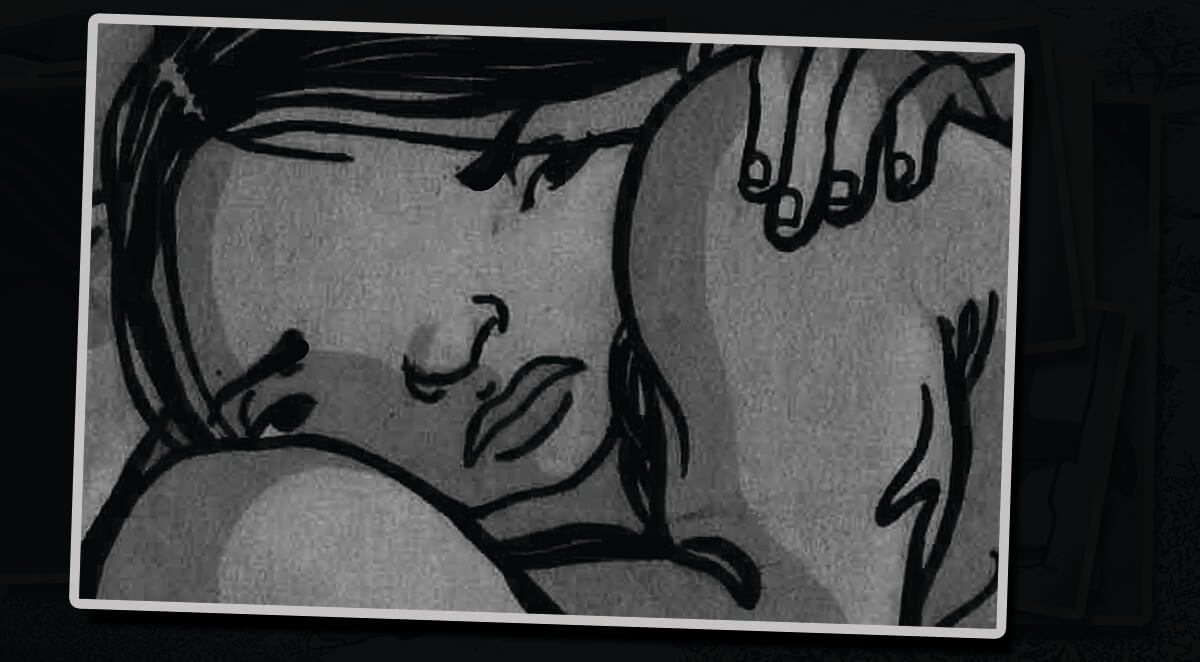
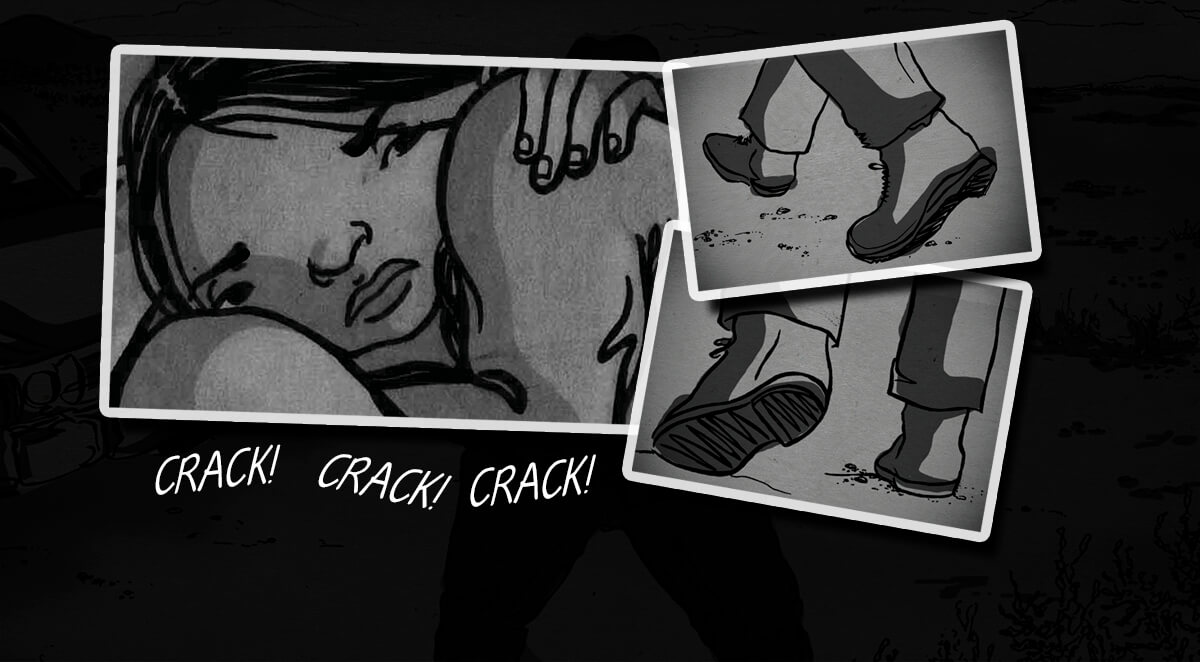
Ajustes C4 / e4-5-6

diff --git a/index.html b/index.html
@@ -394,6 +394,8 @@
 	                    <img src="images/capitulo04/escena-4/buscando-el-norte-capitulo04-escena-4-2.jpg" id="imgbg-capitulo04-scena-4-2" style="display: none;">
 	                    <img src="images/capitulo04/escena-4/buscando-el-norte-capitulo04-escena-4-3.jpg" id="imgbg-capitulo04-scena-4-3" style="display: none;">
 	                    <img src="images/capitulo04/escena-4/buscando-el-norte-capitulo04-escena-4-4.jpg" id="imgbg-capitulo04-scena-4-4" style="display: none;">
+                        <img src="images/capitulo04/escena-4/buscando-el-norte-capitulo04-escena-4-5.jpg" id="imgbg-capitulo04-scena-4-5" style="display: none;">
+                        <img src="images/capitulo04/escena-4/buscando-el-norte-capitulo04-escena-4-6.jpg" id="imgbg-capitulo04-scena-4-6" style="display: none;">
 	                    
 	                    <img src="images/capitulo04/escena-5/buscando-el-norte-capitulo04-escena-5-1.jpg" id="imgbg-capitulo04-scena-5-1" style="display: none;">
 	                    <img src="images/capitulo04/escena-5/buscando-el-norte-capitulo04-escena-5-2.jpg" id="imgbg-capitulo04-scena-5-2" style="display: none;">
@@ -402,6 +404,7 @@
 	                    <img src="images/capitulo04/escena-5/buscando-el-norte-capitulo04-escena-5-5.jpg" id="imgbg-capitulo04-scena-5-5" style="display: none;">
 	                    <img src="images/capitulo04/escena-5/buscando-el-norte-capitulo04-escena-5-6.jpg" id="imgbg-capitulo04-scena-5-6" style="display: none;">
 	                    <img src="images/capitulo04/escena-5/buscando-el-norte-capitulo04-escena-5-7.jpg" id="imgbg-capitulo04-scena-5-7" style="display: none;">
+                        <img src="images/capitulo04/escena-5/buscando-el-norte-capitulo04-escena-5-8.jpg" id="imgbg-capitulo04-scena-5-8" style="display: none;">
 	                    
 	                    <img src="images/capitulo04/escena-6/buscando-el-norte-capitulo04-escena-6-1.jpg" id="imgbg-capitulo04-scena-6-1" style="display: none;">
 	                </div>    

diff --git a/assets/js/functions.js b/assets/js/functions.js
@@ -10,7 +10,7 @@
 	var totalimg_capitulo01_scena_1 = 4; var totalimg_capitulo01_scena_2 = 10; var totalimg_capitulo01_scena_3 = 2; var totalimg_capitulo01_scena_4 = 4; var totalimg_capitulo01_scena_5 = 3; var totalimg_capitulo01_scena_6 = 2;
 	var totalimg_capitulo02_scena_1 = 4; var totalimg_capitulo02_scena_2 = 4; var totalimg_capitulo02_scena_3 = 5; var totalimg_capitulo02_scena_4 = 8;
 	var totalimg_capitulo03_scena_1 = 7; var totalimg_capitulo03_scena_2 = 3; var totalimg_capitulo03_scena_3 = 12; var totalimg_capitulo03_scena_4 = 4;
-	var totalimg_capitulo04_scena_1 = 6; var totalimg_capitulo04_scena_2 = 5; var totalimg_capitulo04_scena_3 = 7; var totalimg_capitulo04_scena_4 = 4;var totalimg_capitulo04_scena_5 = 7;var totalimg_capitulo04_scena_6 = 1;
+	var totalimg_capitulo04_scena_1 = 6; var totalimg_capitulo04_scena_2 = 5; var totalimg_capitulo04_scena_3 = 7; var totalimg_capitulo04_scena_4 = 6;var totalimg_capitulo04_scena_5 = 8;var totalimg_capitulo04_scena_6 = 1;
 	
 	//setup time when the image is displayed
 	var timeimg_capitulo01_scena_1 = [10, 16, 25, 27]; 
@@ -33,8 +33,8 @@
 	var timeimg_capitulo04_scena_1 = [10, 22, 29, 32, 36, 41]; 
 	var timeimg_capitulo04_scena_2 = [2, 4, 5, 6, 11];
 	var timeimg_capitulo04_scena_3 = [17, 20, 25, 27, 28, 33, 54];
-	var timeimg_capitulo04_scena_4 = [11, 30, 44, 63];
-	var timeimg_capitulo04_scena_5 = [25, 29, 30, 46, 49, 59, 66];
+	var timeimg_capitulo04_scena_4 = [11, 30, 39, 44, 57, 63];
+	var timeimg_capitulo04_scena_5 = [9, 25, 29, 31, 46, 49, 58, 66];
 	var timeimg_capitulo04_scena_6 = [45];
 	
 	
